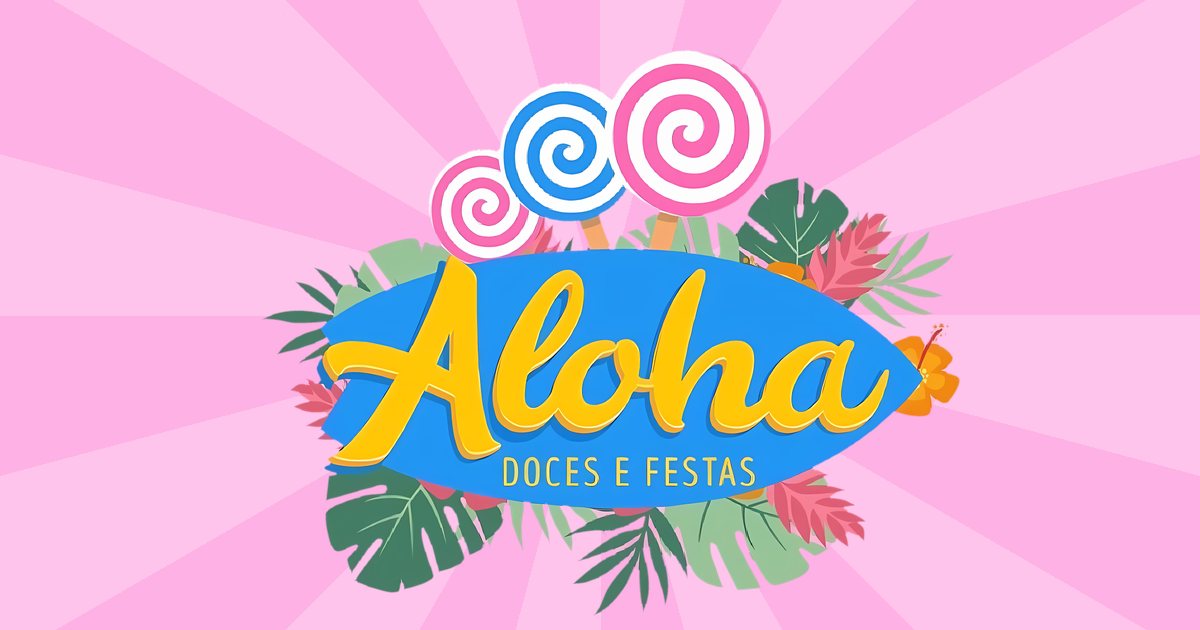
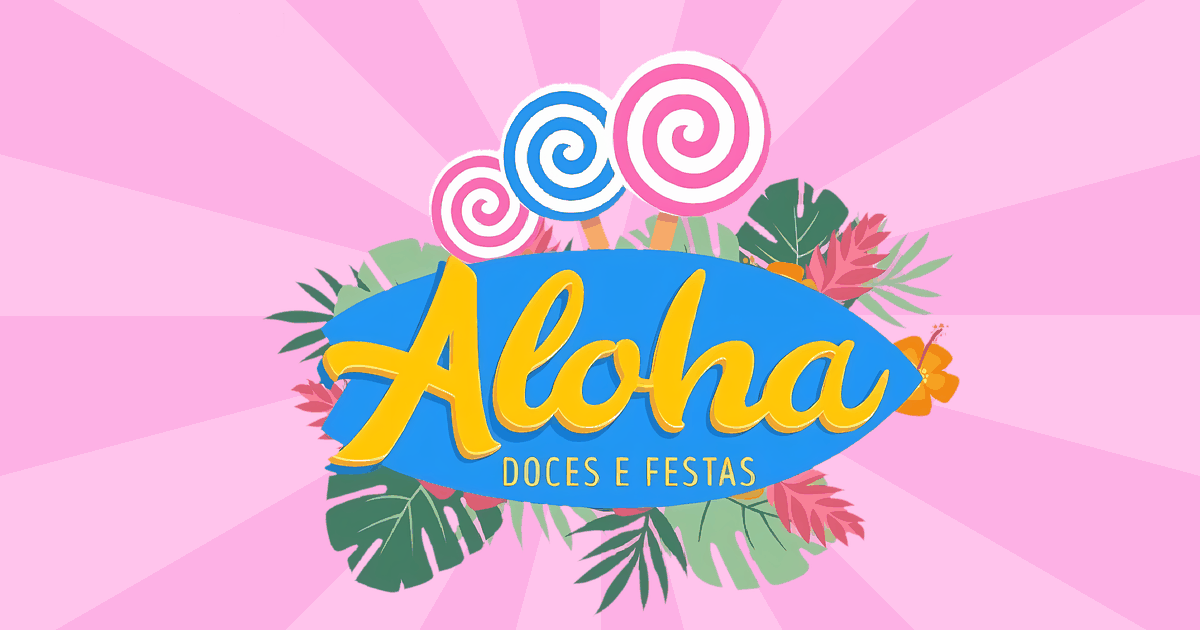
fix: prévia do WhatsApp sem foto
og:url/og:image apontavam para aloha-doces.vercel.app (inexistente);
domínio real é aloha-doceria-tools.vercel.app. og.png reduzido de
291KB para 112KB (WhatsApp ignora imagem acima de ~300KB).

diff --git a/index.html b/index.html
@@ -9,9 +9,9 @@
   <meta property="og:type" content="website">
   <meta property="og:title" content="Aloha Doces e Festas">
   <meta property="og:description" content="Bolos, docinhos e kits festa feitos com carinho em Sumaré-SP. Encomende pelo WhatsApp.">
-  <!-- trocar o domínio se a Vercel gerar outro -->
-  <meta property="og:url" content="https://aloha-doces.vercel.app/">
-  <meta property="og:image" content="https://aloha-doces.vercel.app/og.png">
+  <!-- domínio da Vercel: trocar se mudar -->
+  <meta property="og:url" content="https://aloha-doceria-tools.vercel.app/">
+  <meta property="og:image" content="https://aloha-doceria-tools.vercel.app/og.png">
   <meta property="og:image:width" content="1200">
   <meta property="og:image:height" content="630">
   <meta property="og:locale" content="pt_BR">

diff --git a/tools/logo.py b/tools/logo.py
@@ -108,7 +108,8 @@ def extras():
     l = logo.copy()
     l.thumbnail((1150, int(630 * .96)), Image.LANCZOS)
     og.alpha_composite(l, ((1200 - l.width) // 2, (630 - l.height) // 2))
-    og.convert("RGB").save(RAIZ / "og.png", optimize=True)
+    # paleta de 256 cores: WhatsApp ignora og:image acima de ~300KB
+    og.convert("RGB").quantize(256, dither=Image.Dither.NONE).save(RAIZ / "og.png", optimize=True)
     print("favicon", quad.size, "og", og.size, (RAIZ / "og.png").stat().st_size // 1024, "KB")
 
 
